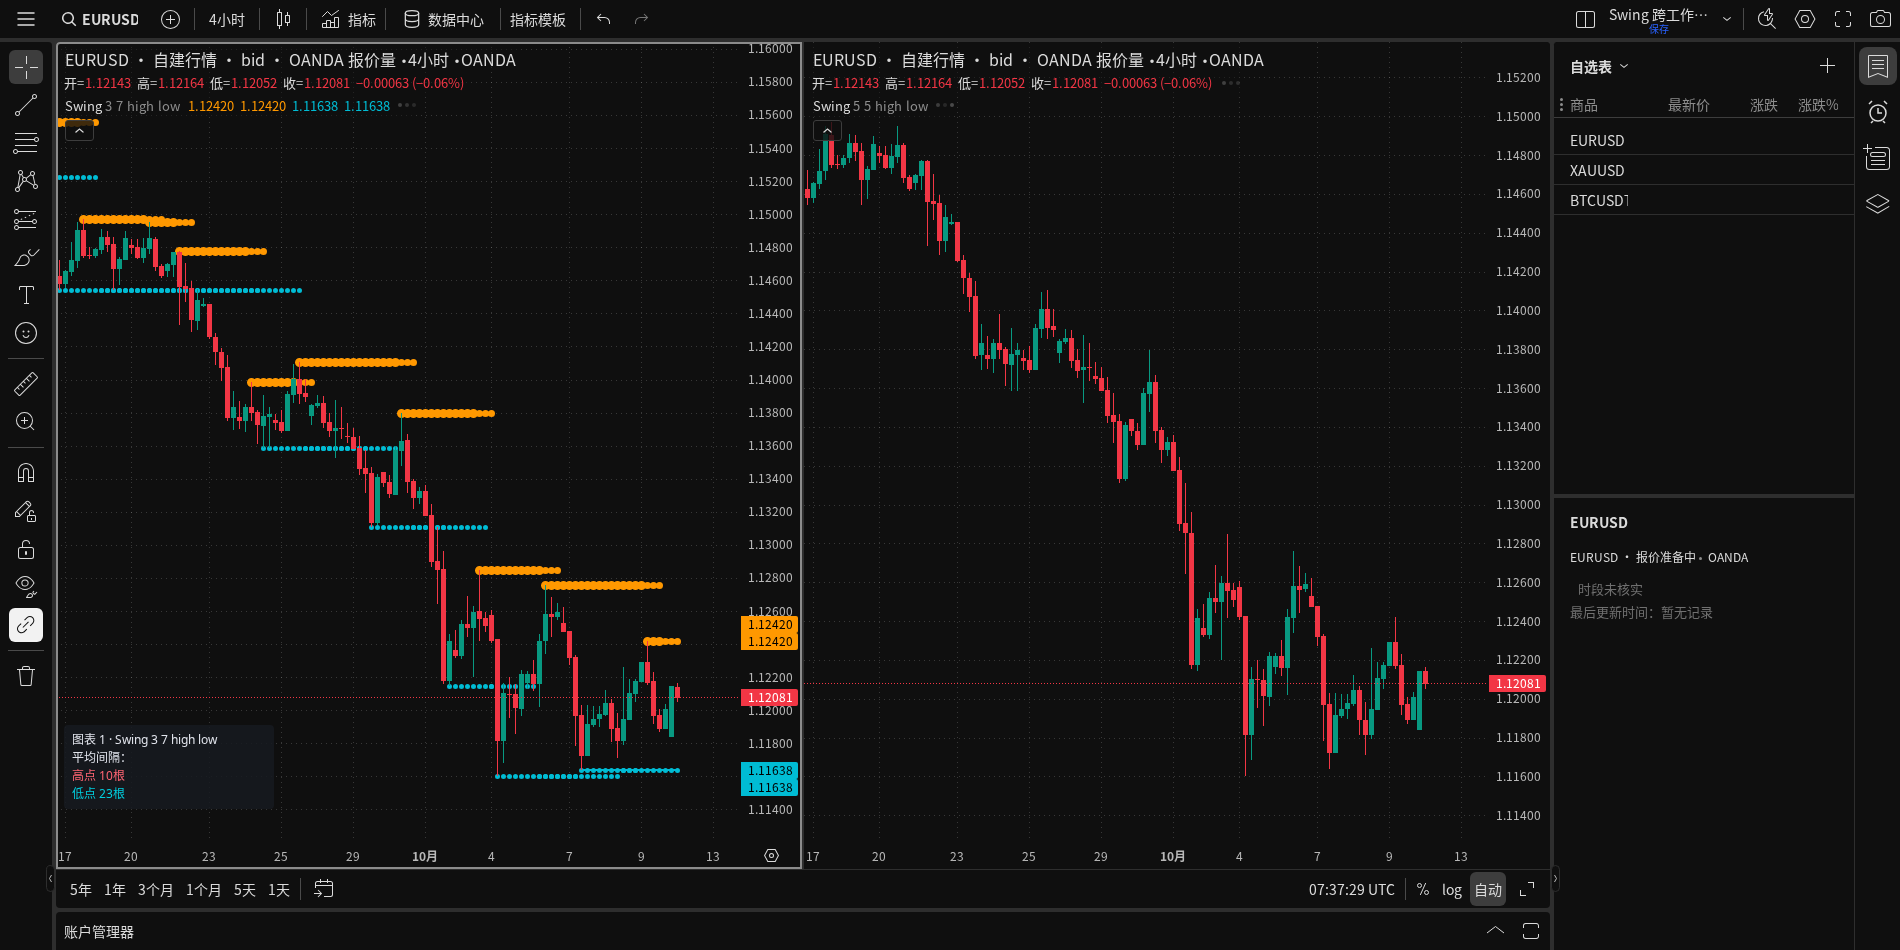
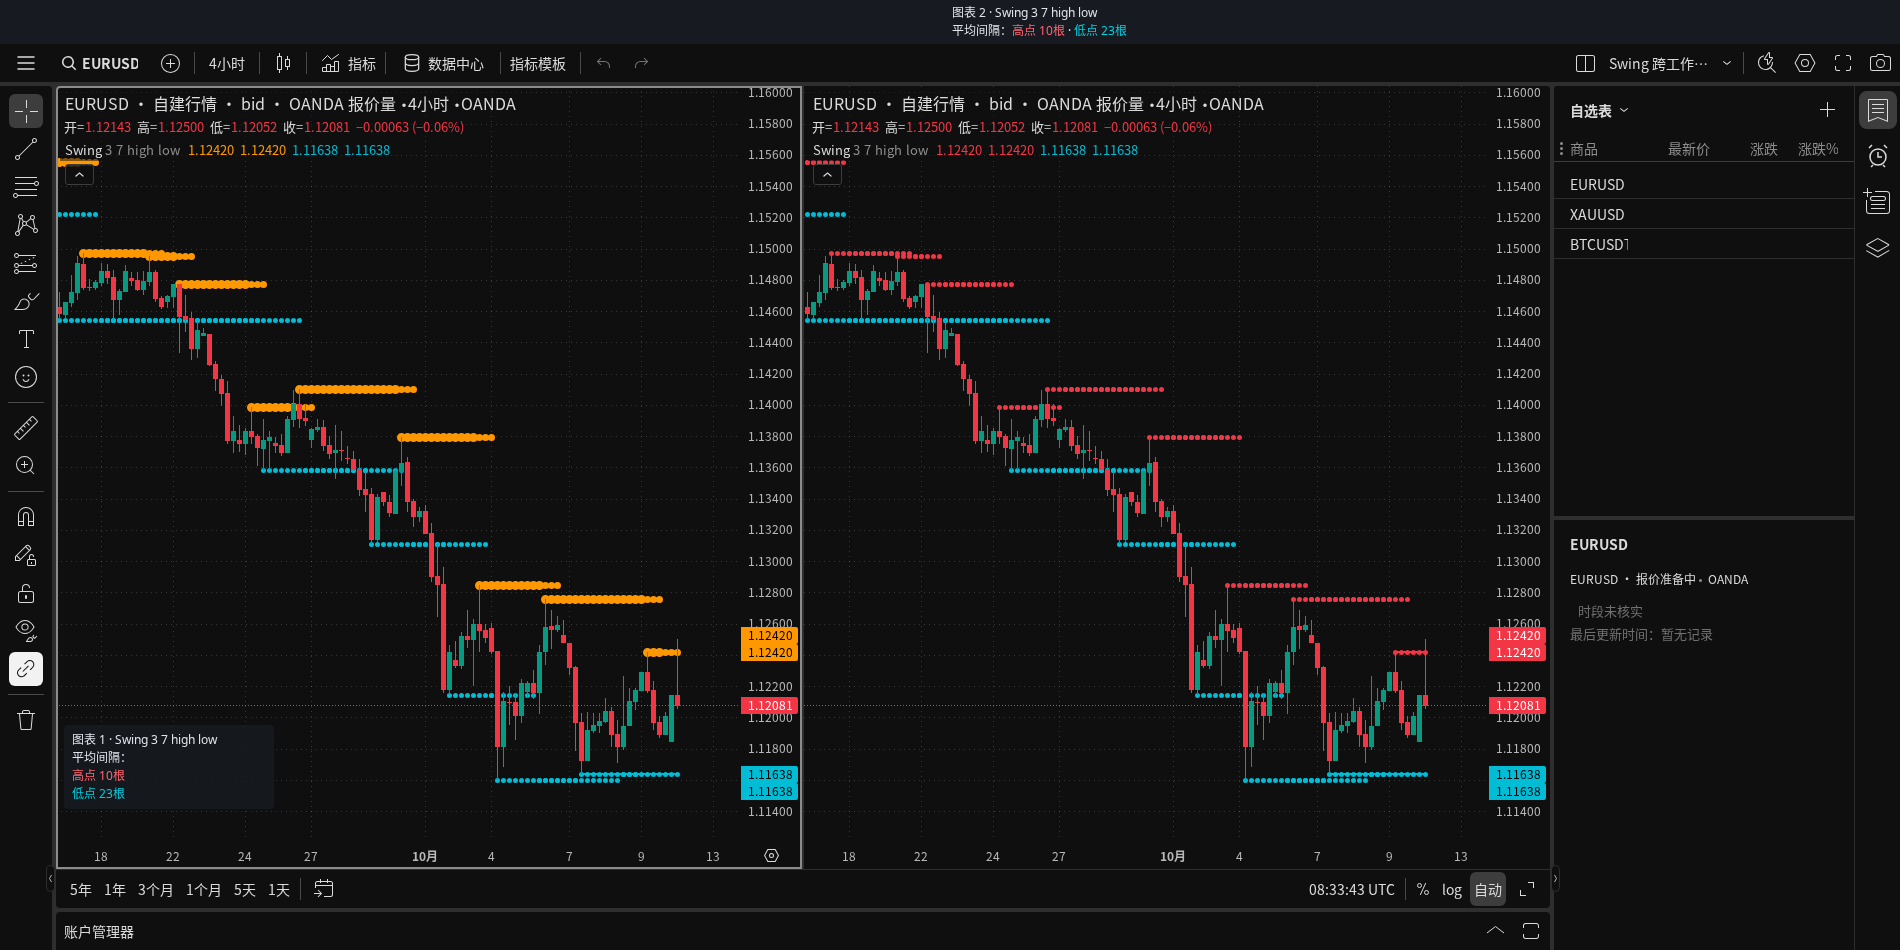
fix: terminate Swing history pagination and reject stale source revisions

diff --git a/advanced-host/swing-sr-display.js b/advanced-host/swing-sr-display.js
@@ -5,6 +5,14 @@ function swingSnapshotKey(symbol, resolution, params) {
   return JSON.stringify([symbol, resolution, params.high_strength, params.low_strength]);
 }
 
+// Published/provider revisions are monotonic database counters. Hash revisions
+// have no numeric order and retain the request/generation fences below.
+function swingRevisionOrder(next, previous) {
+  if (!/^\d+$/.test(String(next)) || !/^\d+$/.test(String(previous))) return null;
+  const a=BigInt(next),b=BigInt(previous);
+  return a < b ? -1 : a > b ? 1 : 0;
+}
+
 function swingSnapshotStore() {
   const records = new Map();
   let sequence = 0;
@@ -13,6 +21,7 @@ function swingSnapshotStore() {
     clear: () => records.clear(),
     get: (symbol, resolution, params) => records.get(swingSnapshotKey(symbol, resolution, params)),
     publish(symbol, resolution, page, ticket) {
+      let accepted=false;
       for (const result of page.indicators || []) {
         const p = result.presentation;
         if (result.name !== 'SWING_SR_V1' || p?.render_profile !== 'swing_sr_v1') continue;
@@ -20,7 +29,10 @@ function swingSnapshotStore() {
         const previous = records.get(key);
         const revision=p.history_revision ?? page.history_revision ?? page.revision ?? null;
         const sameRevision=previous?.presentation.history_revision===revision;
-        if (previous && (ticket < previous.ticket || sameRevision &&
+        const order=previous ? swingRevisionOrder(revision,previous.presentation.history_revision) : null;
+        // A source revision wins over request/arrival order, including repairs
+        // that retract the latest bar. Unknown revisions retain ticket fencing.
+        if (previous && (order===-1 || (order!==1 && ticket < previous.ticket) || sameRevision &&
           p.as_of_bar_time < previous.presentation.as_of_bar_time)) continue;
         // Never replace a complete range by a warmup/page-local statistic.
         if (previous && sameRevision && p.statistics_origin > previous.presentation.statistics_origin) continue;
@@ -28,7 +40,9 @@ function swingSnapshotStore() {
           history_revision:revision,
           history_complete:p.history_complete ?? !(page.indicator_progress || []).some(s=>s.status!=='complete'),
         }, bars:page.bars || []});
+        accepted=true;
       }
+      return accepted;
     },
   };
 }

diff --git a/advanced-host/bridge.js b/advanced-host/bridge.js
@@ -2374,7 +2374,7 @@ addEventListener("message", async (e) => {
     } else if(event.type==='bars' && !sub.historical && !sub.needsHistoryReload) {
       const identity=decode(sub.symbol);
       if(identity.spec?.name==='SWING_SR_V1') {
-        swingStore().publish(MWSeries.encode(identity.symbol,identity.series_kind),sub.res,event,swingStore().ticket());
+        if(!swingStore().publish(MWSeries.encode(identity.symbol,identity.series_kind),sub.res,event,swingStore().ticket())) return;
         swingDisplay?.refresh();
       }
       const rows=barsOf(event,sub.res,sub.symbol);

diff --git a/backend/tests/test_swing_sr.py b/backend/tests/test_swing_sr.py
@@ -280,6 +280,7 @@ def test_provider_page_keeps_full_statistics_and_source_chart_labels(database, m
     older = cache.data(query.model_copy(update={"before": rows[6]["start"]}))
     assert latest["indicators"][0]["presentation"] == older["indicators"][0]["presentation"]
     assert len(older["bars"]) == 3
+
     assert older["bars"][-1]["start"] < latest["bars"][0]["start"]
     p = latest["indicators"][0]["presentation"]
     assert p["current"]["high"]["pivot_chart_time"] == rows[-2]["chart_time"]
@@ -330,6 +331,18 @@ def test_published_page_keeps_full_statistics(database):
     older = managed_dataset.data(query.model_copy(update={"before": rows[6]["start"]}))
     assert latest["indicators"][0]["presentation"] == older["indicators"][0]["presentation"]
     assert len(older["bars"]) == 3
+
+    # Swing computes from the full range even for an old viewport. Pagination
+    # must still end at the requested prefix, including short and empty pages.
+    assert latest["has_more"] is True
+    for before, expected in [(180000, [0, 60000, 120000]), (60000, [0]), (1, [0])]:
+        earliest = managed_dataset.data(query.model_copy(update={"before": before}))
+        assert [row["start"] for row in earliest["bars"]] == expected
+        assert earliest["has_more"] is False
+        assert earliest["indicators"][0]["presentation"] == latest["indicators"][0]["presentation"]
+    empty = managed_dataset.data(query.model_copy(update={"before": 1, "dataset_start": 60000}))
+    assert empty["bars"] == []
+    assert empty["has_more"] is False
 
 
 def test_fixed_composite_preview_is_page_independent_and_never_persisted(database, monkeypatch):

diff --git a/backend/alerts/managed_dataset.py b/backend/alerts/managed_dataset.py
@@ -683,7 +683,9 @@ def data(body):
             db, inst, body.timeframe, now_ms() + 1 if swing else before, max(1, count),
             dataset_start=body.dataset_start
         )
-        visible = [row for row in rows if row["start"] < before][-body.limit :]
+        eligible = [row for row in rows if row["start"] < before]
+        visible = eligible[-body.limit :]
+        has_more = len(eligible) > body.limit
         left = max(pub.start, body.dataset_start or pub.start) if pub else None
         revision = pub.revision if pub else 0
         from .volume import metadata
@@ -718,7 +720,7 @@ def data(body):
         bars=visible,
         indicators=indicators,
         origin=left,
-        has_more=len(rows) > body.limit,
+        has_more=has_more,
         bounded_history=True,
         history_revision=str(revision),
         history_check=history_check,

diff --git a/docs/swing-sr-implementation-acceptance-20261012.md b/docs/swing-sr-implementation-acceptance-20261012.md
@@ -14,12 +14,22 @@ Swing 支撑阻力指标已接入 Python 计算、历史分页、共享实时更
 
 - `backend/alerts/swing_sr.py`：严格对称窗口，两侧独立 strength（默认 5，整数 1–500），平局拒绝，同价新事件计数；累计同类柱数间隔，缺口不跨段配对；整数显示采用精确 ROUND_HALF_UP。确认时间为右窗口末柱结束，候选由确认检查点克隆重算，不写入持久确认状态。
 - `chart_indicators.py`：显式 `series_presentation_v1` 与受校验的公开展示白名单；普通指标继续使用原协议。价格直接取 OANDA 原值，没有平移或校正到 FXCM。
-- managed、provider 与 fixed-history：统计固定完整输入起点，分页只裁剪显示；候选和展示保持同一评估截止点。provider 读取和共享 worker 使用可重复读快照，可见柱、指标、展示采用同一 revision 并排除观察时刻之后的行。
+- managed、provider 与 fixed-history：统计固定完整输入起点，分页只裁剪显示；候选和展示保持同一评估截止点。provider 读取和共享 worker 使用可重复读快照，可见柱、指标、展示采用同一 revision；共享 worker 排除观察时刻之后的行。
 - `indicators.js`、`bridge.js`：四条原生 circles，high_left／low_left 各自固定负偏移；四 plot 历史请求合并。显示开关和位置作为 Boolean／Text study 输入保存，计算参数和缓存键只包含两项 strength。
 - `swing-sr-display.js`：每 study 最多两条有限水平桥，归属 study，不保存、不进 undo；随候选、隐藏、删除、参数、系列身份和多图生命周期同步。统计默认置于应用自有的实例名称下方，可选 pane 左下卡片；通过公开 pane adapter 定位，不读取许可库私有 DOM 类名。
 - `drawing-projection.js`：遵循原生 `isSavingEnabled()`，不将推导桥写回工作区，普通用户画线仍保留。
 - `study-templates.js`：原生指标入口被既有自定义入口关闭后，模板按钮也消失；新增公开 API 工具栏入口，复用 `nativePreferences` 和原有 preferences API，支持命名保存、应用、覆盖确认、删除及只读模式。覆盖确认前关闭 HTML 模态保存弹窗，避免原生确认按钮被顶层弹窗拦截；取消后恢复名称和表单。
-- 展示快照按完整系列身份、周期、参数、请求次序、截止柱、统计起点和 revision 管理；旧响应、旧参数和不完整统计范围不能覆盖较新展示。
+- 展示快照按完整系列身份、周期、参数、请求次序、截止柱、统计起点和 revision 管理；published／provider 的单调数值 revision 优先于请求／到达次序，使用 BigInt 精确比较。拒绝旧实时快照同时阻止原生 plot 回调；hash revision 保留原有请求／generation fencing。
+
+## PR #51 阻塞修复验收
+
+首次 review 在 `e34ab96` 找到两个此前验收遗漏的 P2：Swing 全量统计输入被误用作 `has_more`，以及新订阅重播的旧 worker snapshot 覆盖新 HTTP revision。本轮已分别修复：分页边界按 `before` 前的有效行判断，完整范围继续用于统计；数值 source revision 按版本顺序接收，旧 snapshot 不再更新桥、统计或原生曲线。更新的 revision 仍允许缩短末尾，以保留真实修订／撤回行为。
+
+- 红／绿回归：`test_published_page_keeps_full_statistics` 增加起点、短页、空页与完整统计断言；`swing-sr-adapter.cjs` 增加旧 revision、超过 JS Number 精度的 revision、新 revision 缩尾，以及实际 bridge message handler／native callback 验证。两项在修复前失败、修复后通过；撤掉 bridge 拒绝逻辑会单独触发 native callback 回归失败。
+- 相关 Python 回归扩大到 `test_market_stream.py` 和 `test_market_stream_history_windows.py`：**318 passed**；任务专属 PostgreSQL schema：**6 passed**。Swing adapter、统一 market stream Node 回归、Ruff 与 diff 空白检查通过。
+- Ubuntu Docker 重新构建 api／chart 并更新本任务容器。实际登录网页重跑完整 `swing-sr-application.browser.cjs`，**12 项断言组通过，errors=[]**。真实 datafeed 的 `countBack=5000` 返回4002根且 `noData=true`；最早一页仍保持完整最新统计。
+- 网页注入旧 revision 事件，通过实际消息处理器验证展示 snapshot 未改变、原生回调次数0；实际 worker SSE 的撤回、恢复、确认、双图共享、工作区／模板和旧八指标恢复均再次通过。注入用例与真实 worker SSE 用例在证据中明确区分。
+- 逐张打开深色、双图、375px浅色及 blocker截图检查；双图截图改为两图加载并收到恢复 SSE 后拍摄，避免把尚未绘出的曲线当作验收证据。新图和脱敏断言位于[浏览器证据](verification/swing-sr-v1-20261012/README.md)。
 
 ## 第 7 节验收矩阵审计
 

diff --git a/docs/verification/swing-sr-v1-20261012/README.md b/docs/verification/swing-sr-v1-20261012/README.md
@@ -7,6 +7,17 @@ The light card capture uses 375px width. The two-chart capture shows separate st
 - [Dark comparison](swing-application-comparison.png)
 - [Two charts](swing-application-two-charts.png)
 - [Narrow light card](swing-application-narrow-light.png)
+- [PR review blocker verification](swing-review-blockers.png)
 - [Sanitized browser assertions](browser-acceptance.json)
 
 See [implementation acceptance](../../swing-sr-implementation-acceptance-20261012.md) for test commands, calendar assumptions and scope limits.
+
+The PR #51 follow-up reran authenticated application acceptance after correcting
+published pagination and monotonic source revision fencing. `historyBoundary`
+records a real native datafeed request for 5000 bars: all 4002 frozen bars are
+returned and `noData=true` ends pagination. `staleSnapshot` records a deliberately
+injected older revision through the real browser message handler: the display
+retains its snapshot and no native plot callback runs. Ordinary shared SSE
+withdrawal/restoration/confirmation is separately exercised against the worker.
+The two-chart screenshot is taken after both charts finish loading and consume
+the restored SSE result.
